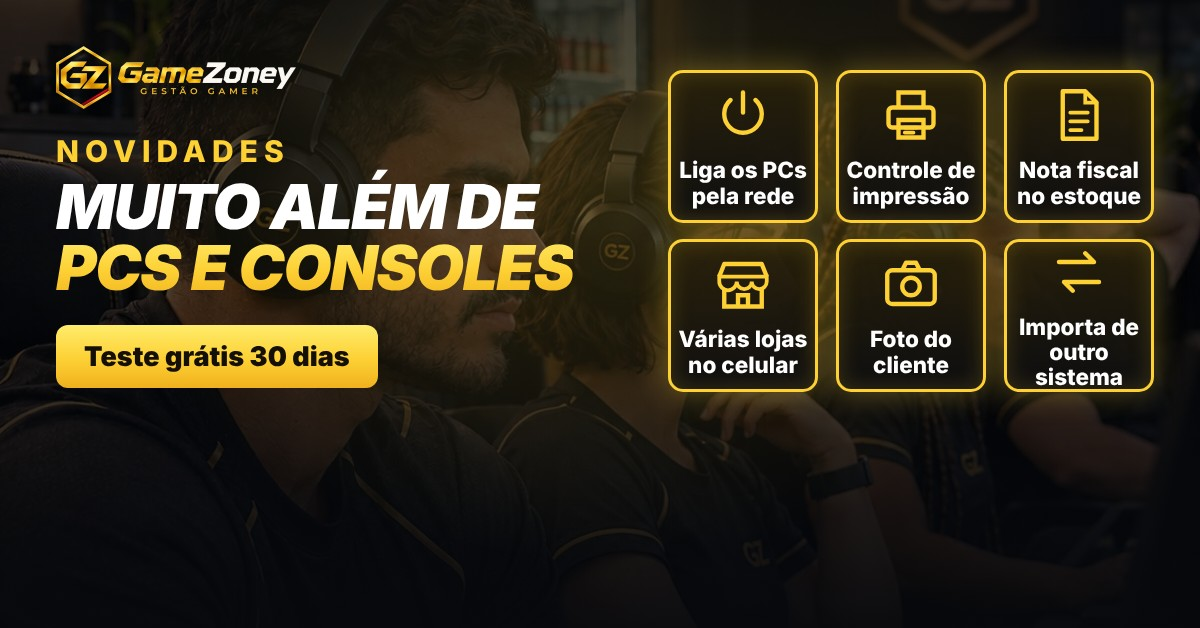
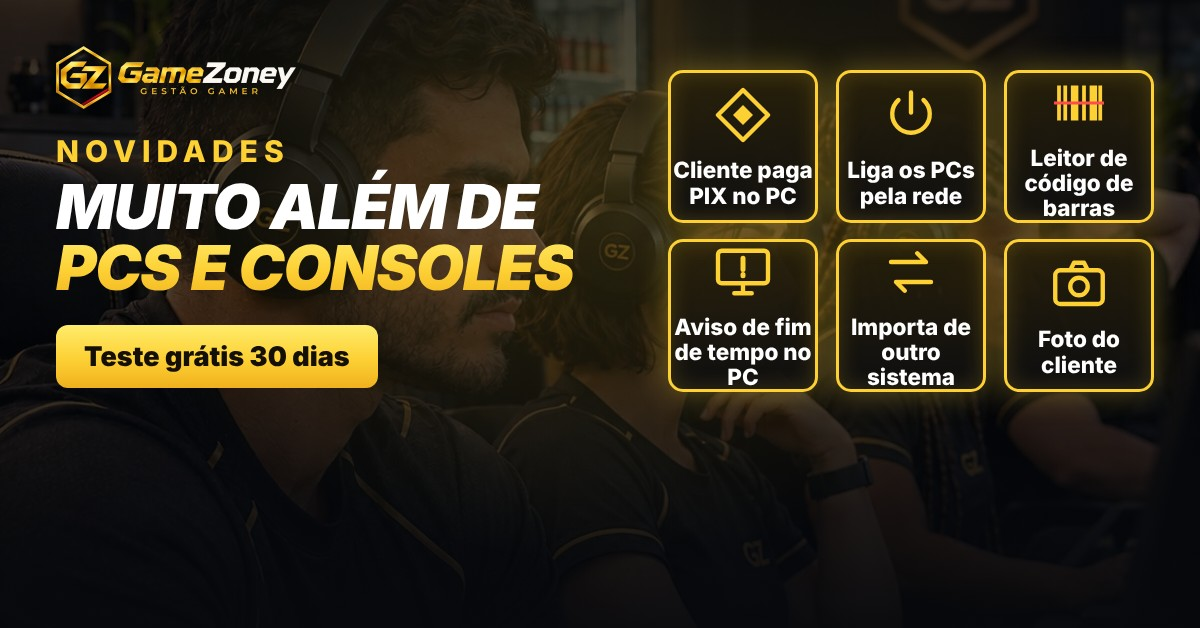
Anúncios: novidades só com recursos do teste grátis (PIX no PC, leitor de código de barras, aviso de tempo) + peças novas de Planos (Free/Standard/Pro) e PIX no PC; passo a passo atualizado
Claude-Session: https://claude.ai/code/session_011pBjUp777QtjBT9w3kkM9L

diff --git a/marketing/gerar-anuncios.js b/marketing/gerar-anuncios.js
@@ -20,9 +20,20 @@ const ICON = {
   lojas: '<svg viewBox="0 0 48 48"><path d="M5 18 9 8h30l4 10" fill="none" stroke="currentColor" stroke-width="3.5" stroke-linejoin="round"/><path d="M5 18h38v4a6 6 0 0 1-12 0 6 6 0 0 1-12 0 6 6 0 0 1-14 0z" fill="none" stroke="currentColor" stroke-width="3"/><path d="M9 28v14h30V28M20 42V33h8v9" fill="none" stroke="currentColor" stroke-width="3.5"/></svg>',
   foto: '<svg viewBox="0 0 48 48"><rect x="5" y="13" width="38" height="27" rx="4" fill="none" stroke="currentColor" stroke-width="3.5"/><path d="M17 13l3-6h8l3 6" fill="none" stroke="currentColor" stroke-width="3.5" stroke-linejoin="round"/><circle cx="24" cy="26" r="7" fill="none" stroke="currentColor" stroke-width="3.5"/></svg>',
   troca: '<svg viewBox="0 0 48 48"><path d="M8 16h28l-7-7M40 32H12l7 7" fill="none" stroke="currentColor" stroke-width="3.5" stroke-linecap="round" stroke-linejoin="round"/></svg>',
+  // 2026-11-10: PIX no PC, leitor de código de barras e aviso de tempo
+  pix: '<svg viewBox="0 0 48 48"><path d="M24 4 44 24 24 44 4 24z" fill="none" stroke="currentColor" stroke-width="3.5" stroke-linejoin="round"/><path d="M16 24l8-8 8 8-8 8z" fill="currentColor"/></svg>',
+  barras: '<svg viewBox="0 0 48 48"><path d="M8 10v28M13 10v28M19 10v28M22 10v28M28 10v28M34 10v28M37 10v28M41 10v28" stroke="currentColor" stroke-width="3"/><path d="M4 24h40" stroke="#ff4d4d" stroke-width="2.5"/></svg>',
+  aviso: '<svg viewBox="0 0 48 48"><rect x="4" y="7" width="40" height="26" rx="3" fill="none" stroke="currentColor" stroke-width="3.5"/><path d="M17 41h14M24 33v8" stroke="currentColor" stroke-width="3.5" stroke-linecap="round"/><path d="M24 13v9M24 26v1" stroke="currentColor" stroke-width="4" stroke-linecap="round"/></svg>',
   wifi: '<svg viewBox="0 0 48 48"><path d="M6 18a26 26 0 0 1 36 0M12 25a17 17 0 0 1 24 0M18 32a8 8 0 0 1 12 0" fill="none" stroke="currentColor" stroke-width="3.5" stroke-linecap="round"/><circle cx="24" cy="39" r="3" fill="currentColor"/></svg>'
 };
-const NOVAS = [['power', 'Liga os PCs<br>pela rede'], ['impressora', 'Controle de<br>impressão'], ['nota', 'Nota fiscal<br>no estoque'], ['lojas', 'Várias lojas<br>no celular'], ['foto', 'Foto do<br>cliente'], ['troca', 'Importa de<br>outro sistema']];
+// 2026-11-10 (Servidor 1.2.8): só recursos liberados no teste grátis (impressão, NF-e e várias lojas dependem do plano: peças *-planos)
+const NOVAS = [['pix', 'Cliente paga<br>PIX no PC'], ['power', 'Liga os PCs<br>pela rede'], ['barras', 'Leitor de<br>código de barras'], ['aviso', 'Aviso de fim<br>de tempo no PC'], ['troca', 'Importa de<br>outro sistema'], ['foto', 'Foto do<br>cliente']];
+// planos (preços padrão de site/plans.js — conferir no /admin › Planos antes de anunciar)
+const PLANOS = [
+  {nome: 'Free', preco: 'Grátis', obs: '30 dias', itens: ['Funções essenciais', 'PIX no PC', 'PCs e consoles ilimitados', 'Sem cartão']},
+  {nome: 'Standard', preco: 'R$ 29,90', obs: '/mês', top: true, itens: ['Todas as funções', 'PIX no PC', 'Controle de impressão', 'Suporte 24 horas']},
+  {nome: 'Pro', preco: 'R$ 129,90', obs: '/mês', itens: ['Tudo do Standard', 'Nota fiscal (NF-e)', 'Várias lojas no celular', 'App personalizado']}];
+const planos = (w, f = 1) => `<div style="display:flex;gap:${18 * f}px;justify-content:center;align-items:stretch">${PLANOS.map(p => `<div style="width:${w}px;padding:${26 * f}px ${18 * f}px;border-radius:${20 * f}px;border:${p.top ? 4 : 2}px solid ${p.top ? '#FDD034' : 'rgba(253,208,52,.45)'};background:linear-gradient(180deg,rgba(40,32,10,.94),rgba(14,14,16,.95));box-shadow:${p.top ? `0 0 ${50 * f}px rgba(253,208,52,.45)` : 'none'};position:relative;text-align:center">${p.top ? `<div style="position:absolute;top:${-20 * f}px;left:50%;transform:translateX(-50%);white-space:nowrap;padding:${6 * f}px ${16 * f}px;border-radius:99px;background:${GOLD};color:#141008;font-size:${20 * f}px;font-weight:900">MAIS POPULAR</div>` : ''}<div style="font-size:${40 * f}px;font-weight:900;font-style:italic" class="${p.top ? 'g' : ''}">${p.nome}</div><div style="margin-top:${10 * f}px;font-size:${44 * f}px;font-weight:900;white-space:nowrap">${p.preco}</div><div style="font-size:${22 * f}px;font-weight:700;color:#cfd3da">${p.obs === '/mês' ? 'por mês' : 'por ' + p.obs}</div><div style="margin-top:${16 * f}px;display:flex;flex-direction:column;gap:${9 * f}px">${p.itens.map(i => `<div style="font-size:${22 * f}px;font-weight:600;color:#e7eaf0;line-height:1.2"><span style="color:#FDD034">✔</span> ${i}</div>`).join('')}</div></div>`).join('')}</div>`;
 const TILES = [['pc', 'PCs e<br>Consoles'], ['caixa', 'Caixa<br>e PDV'], ['trofeu', 'Fidelidade<br>e Corujão'], ['relogio', 'Teste grátis<br>30 dias']];
 const tiles = (list, size) => `<div style="display:flex;gap:${size * .12}px;justify-content:center">${list.map(([i, t]) => `<div style="width:${size}px;height:${size * 1.02}px;border-radius:${size * .1}px;border:3px solid #FDD034;background:linear-gradient(180deg,rgba(40,32,10,.92),rgba(14,14,16,.94));box-shadow:0 0 ${size * .2}px rgba(253,208,52,.35),inset 0 0 ${size * .15}px rgba(253,208,52,.18);display:flex;flex-direction:column;align-items:center;justify-content:center;gap:${size * .08}px"><div style="width:${size * .4}px;height:${size * .4}px;color:#FDD034">${ICON[i]}</div><div style="font-weight:800;font-size:${size * .15}px;line-height:1.12;text-align:center;color:#fff">${t}</div></div>`).join('')}</div>`;
 const page = (w, h, body) => `<html><head><style>*{box-sizing:border-box}body{margin:0;width:${w}px;height:${h}px;overflow:hidden;font-family:Inter,'Inter Display',Arial,sans-serif;background:#07090d;color:#fff}svg{width:100%;height:100%;display:block}.g{background:${GOLD};-webkit-background-clip:text;background-clip:text;color:transparent}</style></head><body><div style="position:absolute;inset:0;background:url(${hero}) center/cover;filter:brightness(.38) saturate(1.1)"></div><div style="position:absolute;inset:0;background:radial-gradient(ellipse at 50% 30%,rgba(253,208,52,.16),transparent 60%),linear-gradient(180deg,rgba(7,9,13,.55),rgba(7,9,13,.25) 40%,rgba(7,9,13,.92))"></div>${body}</body></html>`;
@@ -76,6 +87,38 @@ const PECAS = {
     <div style="margin-top:8px;font-size:62px;font-weight:900;font-style:italic;line-height:.98;letter-spacing:-1.5px">MUITO ALÉM DE<br><span class="g">PCS E CONSOLES</span></div>
     <div style="margin-top:26px;display:inline-block;padding:15px 28px;border-radius:12px;background:${GOLD};color:#141008;font-size:27px;font-weight:900">Teste grátis 30 dias</div>
     <div style="position:absolute;right:46px;top:70px;display:flex;flex-direction:column;gap:16px">${tiles(NOVAS.slice(0, 3), 150)}${tiles(NOVAS.slice(3), 150)}</div></div>`],
+  // 2026-11-10: PLANOS (Free / Standard / Pro) — o que cada um libera
+  'feed-1080x1350-planos': [1080, 1350, `<div style="position:absolute;inset:0;padding:70px 50px;display:flex;flex-direction:column;align-items:center">
+    <img src="${logo}" style="width:330px"><div style="margin-top:40px;font-size:40px;font-weight:800;letter-spacing:8px;color:#FDD034">PLANOS</div>
+    <div style="margin-top:10px;font-size:84px;font-weight:900;font-style:italic;line-height:.98;text-align:center;letter-spacing:-2px">ESCOLHA O<br><span class="g">SEU PLANO</span></div>
+    <div style="margin-top:90px">${planos(320, 1.18)}</div>
+    <div style="position:absolute;bottom:70px;left:60px;right:60px;display:flex;align-items:center;justify-content:space-between"><div style="padding:26px 40px;border-radius:16px;background:${GOLD};color:#141008;font-size:40px;font-weight:900">Comece grátis</div><div style="font-size:38px;font-weight:800">gamezoney.com</div></div></div>`],
+  'story-1080x1920-planos': [1080, 1920, `<div style="position:absolute;inset:0;padding:250px 40px 0;display:flex;flex-direction:column;align-items:center">
+    <img src="${logo}" style="width:380px"><div style="margin-top:46px;font-size:46px;font-weight:800;letter-spacing:10px;color:#FDD034">PLANOS</div>
+    <div style="margin-top:12px;font-size:100px;font-weight:900;font-style:italic;line-height:.98;text-align:center;letter-spacing:-2px">ESCOLHA O<br><span class="g">SEU PLANO</span></div>
+    <div style="margin-top:100px">${planos(320, 1.05)}</div>
+    <div style="margin-top:90px;padding:30px 60px;border-radius:20px;background:${GOLD};color:#141008;font-size:50px;font-weight:900">Comece grátis · gamezoney.com</div></div>`],
+  'quadrado-1080x1080-planos': [1080, 1080, `<div style="position:absolute;inset:0;padding:56px 50px;display:flex;flex-direction:column;align-items:center">
+    <img src="${logo}" style="width:300px"><div style="margin-top:30px;font-size:74px;font-weight:900;font-style:italic;line-height:.98;text-align:center;letter-spacing:-2px">ESCOLHA O <span class="g">SEU PLANO</span></div>
+    <div style="margin-top:80px">${planos(310, 1.05)}</div>
+    <div style="position:absolute;bottom:56px;left:60px;right:60px;display:flex;align-items:center;justify-content:space-between"><div style="padding:24px 38px;border-radius:16px;background:${GOLD};color:#141008;font-size:38px;font-weight:900">Comece grátis</div><div style="font-size:36px;font-weight:800">gamezoney.com</div></div></div>`],
+  'paisagem-1200x628-planos': [1200, 628, `<div style="position:absolute;inset:0;padding:40px 46px">
+    <img src="${logo}" style="width:220px"><div style="margin-top:20px;font-size:54px;font-weight:900;font-style:italic;line-height:.98;letter-spacing:-1.5px">ESCOLHA O<br><span class="g">SEU PLANO</span></div>
+    <div style="margin-top:22px;display:inline-block;padding:14px 26px;border-radius:12px;background:${GOLD};color:#141008;font-size:26px;font-weight:900">Comece grátis</div>
+    <div style="position:absolute;right:36px;top:64px">${planos(232, .74)}</div></div>`],
+  // 2026-11-10: PIX no PC (autoatendimento, todos os planos)
+  'feed-1080x1350-pix': [1080, 1350, `<div style="position:absolute;inset:0;padding:80px 70px">
+    <img src="${logo}" style="width:300px"><div style="margin-top:70px;font-size:56px;font-weight:700;color:#e7eaf0">Fila no balcão?</div>
+    <div style="margin-top:14px;font-size:100px;font-weight:900;font-style:italic;line-height:.98;letter-spacing:-2px">PAGOU NO PIX,<br><span class="g">JÁ JOGA.</span></div>
+    <div style="margin-top:40px;font-size:40px;line-height:1.35;color:#e7eaf0;max-width:900px">O cliente cria a conta e paga pelo PIX direto no PC. Pagamento aprovado, o tempo entra sozinho. Disponível em todos os planos.</div>
+    <div style="position:absolute;right:70px;top:300px;width:200px;height:200px;color:#FDD034;filter:drop-shadow(0 0 30px rgba(253,208,52,.6))">${ICON.pix}</div>
+    <div style="position:absolute;bottom:80px;left:70px;right:70px;display:flex;align-items:center;justify-content:space-between"><div style="padding:30px 46px;border-radius:18px;background:${GOLD};color:#141008;font-size:44px;font-weight:900">Teste grátis 30 dias</div><div style="font-size:40px;font-weight:800">gamezoney.com</div></div></div>`],
+  'story-1080x1920-pix': [1080, 1920, `<div style="position:absolute;inset:0;padding:260px 70px 0;display:flex;flex-direction:column;align-items:center;text-align:center">
+    <img src="${logo}" style="width:380px"><div style="margin-top:80px;width:260px;height:260px;color:#FDD034;filter:drop-shadow(0 0 40px rgba(253,208,52,.6))">${ICON.pix}</div>
+    <div style="margin-top:70px;font-size:60px;font-weight:700;color:#e7eaf0">Fila no balcão?</div>
+    <div style="margin-top:14px;font-size:118px;font-weight:900;font-style:italic;line-height:.98;letter-spacing:-2px">PAGOU NO PIX,<br><span class="g">JÁ JOGA.</span></div>
+    <div style="margin-top:50px;font-size:46px;line-height:1.35;color:#e7eaf0">O cliente paga direto no PC e o tempo entra sozinho, sem fila no balcão.</div>
+    <div style="margin-top:90px;padding:30px 60px;border-radius:20px;background:${GOLD};color:#141008;font-size:50px;font-weight:900">Teste grátis · gamezoney.com</div></div>`],
   // Google Display / link do Facebook 1,91:1
   'paisagem-1200x628': [1200, 628, `<div style="position:absolute;inset:0;padding:50px 56px">
     <img src="${logo}" style="width:250px"><div style="margin-top:30px;font-size:70px;font-weight:900;font-style:italic;line-height:.98;letter-spacing:-1.5px">SISTEMA PARA<br><span class="g">ARENA GAMER</span></div>

diff --git a/marketing/ANUNCIOS-PASSO-A-PASSO.md b/marketing/ANUNCIOS-PASSO-A-PASSO.md
@@ -9,7 +9,13 @@ Confidencial (uso interno). As peças prontas estão em `marketing/anuncios/`.
 | `gamezoney-story-1080x1920.jpg` | Stories, Reels, Status do WhatsApp |
 | `gamezoney-quadrado-1080x1080.jpg` | Facebook, Google (Display e Performance Max) |
 | `gamezoney-paisagem-1200x628.jpg` | Google (Display), link do Facebook |
-| `gamezoney-feed-1080x1350-novidades.jpg` | Feed — novidades (liga PCs, impressão, nota fiscal, várias lojas, foto, importação) |
+| `gamezoney-feed-1080x1350-novidades.jpg` | Feed — novidades liberadas no teste grátis (PIX no PC, liga PCs, leitor de código de barras, aviso de fim de tempo, importação, foto) |
+| `gamezoney-feed-1080x1350-planos.jpg` | Feed — planos Free / Standard / Pro com preço e o que cada um libera |
+| `gamezoney-story-1080x1920-planos.jpg` | Stories, Reels, Status do WhatsApp — planos |
+| `gamezoney-quadrado-1080x1080-planos.jpg` | Facebook, Google (Display e Performance Max) — planos |
+| `gamezoney-paisagem-1200x628-planos.jpg` | Google (Display), link do Facebook — planos |
+| `gamezoney-feed-1080x1350-pix.jpg` | Feed — PIX no PC ("Pagou no PIX, já joga") |
+| `gamezoney-story-1080x1920-pix.jpg` | Stories, Reels, Status do WhatsApp — PIX no PC |
 | `gamezoney-feed-1080x1350-troca-sistema.jpg` | Feed — para quem já usa outro sistema ("Traga seus clientes") |
 | `gamezoney-story-1080x1920-novidades.jpg` | Stories, Reels, Status do WhatsApp — novidades |
 | `gamezoney-quadrado-1080x1080-novidades.jpg` | Facebook, Google (Display e Performance Max) — novidades |
@@ -60,10 +66,15 @@ No próprio Instagram, publique a peça `feed-1080x1350-recursos` com a legenda 
 ---
 
 ### Campanha "Novidades" e "Troca de sistema" (nov/2026)
-- **Novidades** (peças `*-novidades`): texto principal: *O GameZoney agora liga os PCs pela rede, controla as impressões, dá entrada no estoque pela nota fiscal e mostra todas as suas lojas no celular. Teste grátis por 30 dias.* — Título: *Muito além de PCs e consoles*.
+- **Novidades** (peças `*-novidades`, atualizadas em 10/11/2026): texto principal: *No GameZoney o cliente paga o PIX direto no PC, você liga os PCs pela rede, vende pelo leitor de código de barras e o PC avisa quando o tempo está acabando. Teste grátis por 30 dias.* — Título: *Muito além de PCs e consoles*.
+- **Atenção (desde a 1.2.8):** o teste grátis não libera Controle de impressão, Nota fiscal (NF-e), Várias lojas (Multi-Unidade) nem Gerenciar App. Não anuncie esses recursos junto com "Teste grátis": eles aparecem só nas peças de **Planos** (impressão = Standard e Pro; NF-e, várias lojas e app = Pro).
+
+### Campanha "Planos" e "PIX no PC" (nov/2026)
+- **Planos** (peças `*-planos`): texto principal: *Comece grátis por 30 dias. Standard por R$ 29,90/mês com todas as funções, PIX no PC e controle de impressão. Pro por R$ 129,90/mês com nota fiscal (NF-e), várias lojas no celular e app personalizado.* — Título: *Escolha o seu plano*. **Antes de publicar, confira os preços em /admin › Planos**: as peças usam os preços padrão (R$ 29,90 e R$ 129,90); se mudar no site, mude `PLANOS` em `gerar-anuncios.js` e rode `node marketing/gerar-anuncios.js`.
+- **PIX no PC** (peças `*-pix`): texto principal: *Chega de fila no balcão: o cliente cria a conta e paga pelo PIX direto no PC. Pagamento aprovado, o tempo entra sozinho. Em todos os planos, inclusive no teste grátis.* — Título: *Pagou no PIX, já joga*. Não use o logotipo oficial do PIX (o ícone da peça é genérico).
 - **Troca de sistema** (peça `feed-1080x1350-troca-sistema`): texto principal: *Vai trocar de sistema? Importe nick, tempo e medalhas de fidelidade dos seus clientes por planilha, em poucos minutos. Nenhum cliente fica para trás.* — Título: *Traga seus clientes para o GameZoney*. Público: interesses de *Lan house* e *Pequenas empresas*.
 - **Não cite outras marcas** (nomes de outros sistemas) no texto ou na imagem do anúncio: Google e Meta podem reprovar por uso de marca de terceiros. Os nomes aparecem só nas Dúvidas frequentes do site.
-- No Google Performance Max, acrescente as peças `quadrado-1080x1080-novidades` e `paisagem-1200x628-novidades` ao mesmo grupo de recursos (não precisa criar campanha nova) e os títulos: *Liga os PCs pela Rede* · *Controle de Impressão* · *Várias Lojas no Celular* · *Troque de Sistema Fácil*.
+- No Google Performance Max, acrescente as peças `quadrado-1080x1080-novidades` e `paisagem-1200x628-novidades` ao mesmo grupo de recursos (não precisa criar campanha nova) e os títulos: *Cliente Paga PIX no PC* · *Liga os PCs pela Rede* · *Leitor de Código de Barras* · *Troque de Sistema Fácil*. Acrescente também as peças `*-planos` com os títulos *Planos a partir de R$ 29,90* · *Comece Grátis por 30 Dias*.
 
 ## 2. WhatsApp
 
